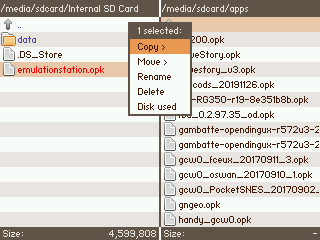
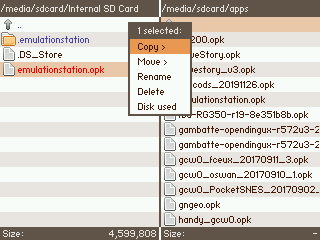
Mejora instalación EmulationStation.

Changed region(s): [[0.5938, 0.3792, 0.9688, 0.4375], [0.5938, 0.4667, 0.9688, 0.4958], [0.0625, 0.1458, 0.2812, 0.175]]

diff --git a/docs/2020-02-13-rg350_emulationstation.md b/docs/2020-02-13-rg350_emulationstation.md
@@ -13,30 +13,29 @@ En este artículo vamos a ver cómo instalar y configurar el frontend EmulationS
 
 Empezamos por la instalación. Desgraciadamente además de copiar un OPK como habitualmente, hay que mover unos cuantos ficheros a una ruta de la tarjeta interna. A continuación los detalles paso a paso (las operaciones de copiado de ficheros se muestran con `DinguxCmdr` por ser accesible para todo el mundo, pero naturalmente se pueden hacer por FTP o SCP):
 
-1. Bajar [este fichero](https://github.com/ManuelSch81/RG350-EmulationStation_configured/archive/master.zip) y descomprimirlo.
-2. Dentro veremos el directorio `Internal SD Card` (el resto no los utilizaremos para nada) que hay que copiar a la tarjeta externa de la consola (montándola en el PC con un adaptador o lector de tarjetas o por FTP, SCP, ...).
-3. Desmontar la SD del PC para devolverla a la ranura externa de la consola.
-4. Abrir `DinguxCmdr`. Moverse por la estructura de ficheros hasta localizar a la izquierda la ruta `/media/sdcard/Internal SD Card` y a la derecha `/media/sdcard/apps`. La ruta de la derecha es donde vamos a instalar el OPK. En este caso hemos indicado la ruta donde están los OPKs en la tarjeta externa. Alternativamente se puede utilizar la ruta donde están los OPKs en la interna que es `/media/data/apps`, si se prefiere instalar en esta tarjeta:
+1. Bajar [este fichero](https://github.com/ManuelSch81/RG350-EmulationStation_configured/archive/master.zip) y descomprimirlo. Dentro veremos un par de directorios y un README. Nos fijamos en el directorio `Internal SD Card` (el resto no los utilizaremos para nada).
+2. Abrir el directorio `Internal SD Card` y renombrar el directorio `data` que allí veremos a `.emulationstation` (si lo hacemos en Linux, el directorio desaparecerá a no ser que tengamos activa la opción de mostrar archivos ocultos).
+3. Abrir el directorio que acabamos de renombrar en el paso anterior. Dentro veremos dos directorios y algunos ficheros. Borrar el directorio `gamelists` (ya que contiene listados de ROMs que tenía el autor del repositorio en su consola, lo que hará más lenta la carga de EmulationStation).
+4. Subir un par de niveles de directorios hasta volver a tener a la vista el directorio `Internal SD Card`.
+5. Copiar este directorio a la tarjeta externa de la consola (montándola en el PC con un adaptador o lector de tarjetas o por FTP, SCP, ...).
+6. Desmontar la SD del PC para devolverla a la ranura externa de la consola.
+7. Abrir `DinguxCmdr`. Moverse por la estructura de ficheros hasta localizar a la izquierda la ruta `/media/sdcard/Internal SD Card` y a la derecha `/media/sdcard/apps`. La ruta de la derecha es donde vamos a instalar el OPK. En este caso hemos indicado la ruta donde están los OPKs en la tarjeta externa. Alternativamente se puede utilizar la ruta donde están los OPKs en la interna que es `/media/data/apps`, si se prefiere instalar en esta tarjeta:
 
     ![EmulationStation Instalación 1](/images/posts/emulationstation_install1.png)
 
-5. Seleccionar el fichero `emulationstation.opk` en el panel izquierdo y pulsar `X`. En el menú que aparece seleccionar `Copy >` y confirmar con `A`:
+8. Seleccionar el fichero `emulationstation.opk` en el panel izquierdo y pulsar `X`. En el menú que aparece seleccionar `Copy >` y confirmar con `A`:
 
     ![EmulationStation Instalación 2](/images/posts/emulationstation_install2.png)
 
-6. Seleccionar el directorio `data` en el panel izquierdo y pulsar `X`. En el menú que aparece seleccionar `Rename` y confirmar con `A`. Nos aparecerá un teclado virtual con el que lo renombraremos a `.emulationstation` (ojo al punto inicial). Para borrar utilizamos `Y` y para escribir seleccionamos la letra o el punto con la cruceta y confirmamos con `A`. Terminamos seleecionando `OK`:
-
-    ![EmulationStation Instalación 3](/images/posts/emulationstation_install3.png)
-
-7. Cambiar en el panel derecho la ruta a `/media/data/local/home`:
+9. Cambiar en el panel derecho la ruta a `/media/data/local/home`:
 
     ![EmulationStation Instalación 4](/images/posts/emulationstation_install4.png)
 
-8. Seleccionar en el panel izquierdo el directorio que hemos renombrado en el paso 6 y pulsar `X`. En el menú que aparece seleccionar `Copy >` y confirmar con `A`:
+10. Seleccionar en el panel izquierdo el directorio `.emulationstation` y pulsar `X`. En el menú que aparece seleccionar `Copy >` y confirmar con `A`:
 
     ![EmulationStation Instalación 5](/images/posts/emulationstation_install5.png)
 
-9. Finalmente salir de `DinguxCmdr` pulsando `Y` y seleccionando `Quit`:
+11. Finalmente salir de `DinguxCmdr` pulsando `Y` y seleccionando `Quit`:
 
     ![EmulationStation Instalación 6](/images/posts/emulationstation_install6.png)
 
